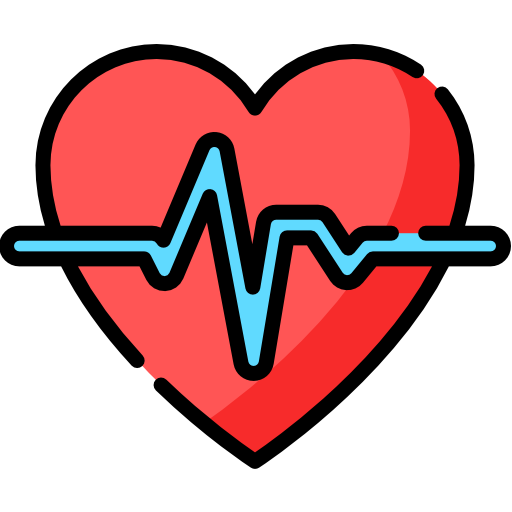
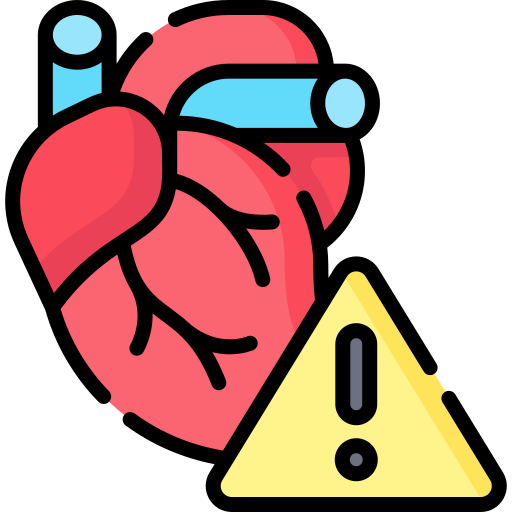
feat: link evaluation button to Microsoft Forms, update question count to 10, and update related assets

diff --git a/induccion.html b/induccion.html
@@ -1,4 +1,4 @@
-<!DOCTYPE html>
+<!DOCTYPE html>
 <html lang="es">
 <head>
     <meta charset="UTF-8">
@@ -2048,18 +2048,18 @@
                         <div class="quiz-info-card">
                             <div class="q-info-item">
                                 <i class="fa-solid fa-list-check"></i>
-                                <span><strong>Preguntas:</strong> 5</span>
+                                <span><strong>Preguntas:</strong> 10</span>
                             </div>
                             <div class="q-info-item">
                                 <i class="fa-solid fa-percent"></i>
-                                <span><strong>Aprobación Mínima:</strong> 80% (4 correctas)</span>
+                                <span><strong>Aprobación Mínima:</strong> 80% (8 correctas)</span>
                             </div>
                         </div>
 
                         <div class="buttons" style="justify-content: center; margin-top:30px;">
-                            <button class="btn btn-primary btn-large" onclick="startQuiz()">
+                            <a href="https://forms.cloud.microsoft/r/9jbEPw0KJd" target="_blank" rel="noopener noreferrer" class="btn btn-primary btn-large" style="text-decoration: none; display: inline-flex; align-items: center; justify-content: center; gap: 8px;">
                                 <i class="fa-solid fa-play"></i> Comenzar Evaluación
-                            </button>
+                            </a>
                         </div>
                     </div>
 
